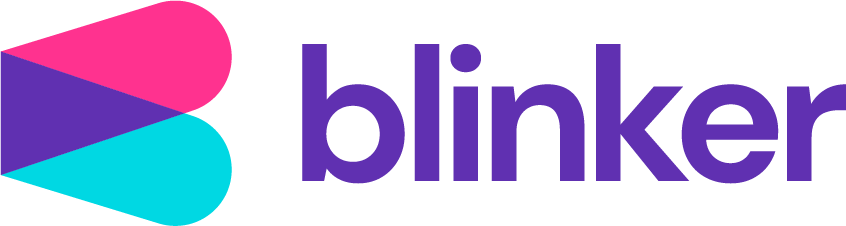
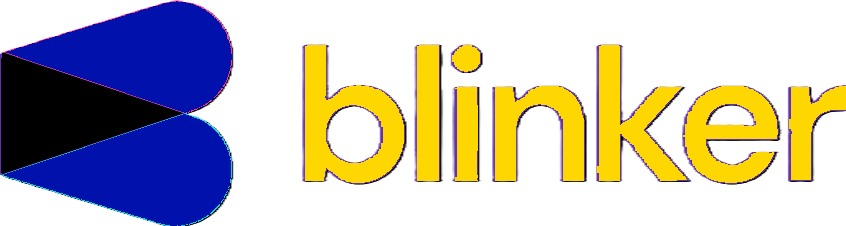
finsihed

diff --git a/style.css b/style.css
@@ -66,6 +66,7 @@ li {
 
 ul{
     display: flex;
+    align-items: center;
 }
 
 .white{
@@ -99,6 +100,7 @@ nav {
 }
 
 .logo {
+    color:#FFD700;
     max-width: 200px;
     max-height: 50px;
 }
@@ -111,6 +113,90 @@ nav {
     margin-right: 24px;
     font-size: 20px;
     font-weight: bold;
+}
+
+.filter__menu {
+    color: #000;
+    background-color: #FFD700;
+}
+
+.filter__button{
+    padding: 8px 16px;
+    border-radius: 8px;
+    font-weight: bold;
+    font-size: 16px;
+    cursor: pointer;
+    transition: all 300ms ease;
+}
+
+.filter__backdrop {
+    position: absolute;
+    background-color: #242424;
+    top: 0;
+    left: 0;
+    right: 0;
+    bottom: 0;
+    z-index: 100;
+    display: flex;
+    justify-content: center;
+    align-items: center;
+    transition: all 300ms ease;
+    visibility: hidden;
+    opacity: 0;
+}
+
+.filter--open {
+    max-height: 100vh;
+    overflow-y: hidden;
+}
+
+.filter--open .filter__backdrop {
+    opacity: 1;
+    visibility: visible;
+}
+
+.filter__menu--close {
+    position: absolute;
+    right: 20px;
+    top: 10px;
+    font-size: 48px;
+    color:#FFD700;
+    background-color: transparent;
+    cursor: pointer;
+    border: none;
+    transition: all 300ms ease;
+}
+
+.filter__button:hover{
+    opacity: 0.5;}
+
+.filter__choices{
+    display: flex;
+    flex-direction: column;
+    align-items: center;
+}
+
+.filter__choice--text{
+    font-size: 24px;
+    font-weight: 500;
+    color: #fff;
+}
+
+.filter__choice--button{
+    margin: 16px 0;
+    padding: 24px 48px;
+    font-size: 24px;
+    font-weight: 500;
+    background-color: #FFD700;
+    border-radius: 24px;
+    border: 2px solid #fff;
+    cursor: pointer;
+    transition: all 300ms ease;
+}
+
+.filter__choice--button:hover,
+.filter__menu--close:hover{
+    opacity: 0.5;
 }
 
 header{
@@ -188,11 +274,12 @@ MOVIE LIST SECTION
 
 input[type="range"]{
   width: 300px;
+  cursor: pointer;
 }
 
 input[type="range"]::-webkit-slider-runnable-track {
     height: 15px;
-    background: #ccc;
+    background: #FFD700;
     border-radius: 16px;
 }
 
@@ -364,6 +451,25 @@ FOOTER
 
 footer{
     background-color: #242424;
+    padding: 2% 0;
+}
+
+.footer__row {
+    display: flex;
+    flex-direction: column;
+    align-items: center;
+    text-align: center;
+}
+
+.footer__logo--img{
+    width: 300px;
+}
+
+.footer__copyright{
+    
+    color: white;
+    margin: 16px 0 0 0;
+
 }
 
 @media(max-width: 1024px){
@@ -465,7 +571,7 @@ footer{
     }
 
     .search__wrapper {
-        width: 400px;
+        width: 350px;
     }
 
     .reset__button {
@@ -481,9 +587,11 @@ footer{
     }
 
     .movie__description--text{
-        line-height: 1.5;
+        line-height: 1.2;
     }
 
-    
+    .footer__logo--img{
+        width: 200px
+    }
 
 }

diff --git a/index.js b/index.js
@@ -3,34 +3,34 @@ const pageListEl = document.querySelector(".page__list");
 let movieName = localStorage.getItem("movieName") || "None";
 let page = 1;
 let year = '';
+let type = "series";
 
-async function main(movieName, page, year) {
-  const movies = await fetch(`https://www.omdbapi.com/?apikey=7def6ab0&s=${movieName}&type=movie&page=${page}&y=${year}`);
+async function main(movieName, type, page, year) {
+  const movies = await fetch(`https://www.omdbapi.com/?apikey=7def6ab0&s=${movieName}&type=${type}&page=${page}&y=${year}`);
   const movieData = await movies.json();
   const movieList = movieData.Search;
   movieListEl.innerHTML = movieList.map((user) => moviesHtml(user)).join("");
   pageListEl.innerHTML = moviePages(movieData.totalResults, movieName);
 }
 
-main(movieName, page, year);
+main(movieName, type, page, year);
 
 function showUserMovies(imdbID) {
   localStorage.setItem("imdbID", imdbID);
   window.location.href = `${window.location.origin}/Week4-Project/movies.html`
-  console.log(window.location.origin);
 }
 
 async function onSearchChange(event) {
   movieName = event.target.value;
   localStorage.setItem("movieName", movieName);
-  main(movieName, page, year);
+  main(movieName, type, page, year);
 }
 
 function moviePages(totalResults, movieName) {
   let pages = Math.ceil(totalResults / 10);
   let pageList = [];
   for (let i = 1; i <= pages; i++) {
-    pageList.push(`<a class = "page__link" onclick = "main('${movieName}',${i},year)">${i}</a>`)
+    pageList.push(`<a class = "page__link" onclick = "main('${movieName}',type,${i},year)">${i}</a>`)
   }
   return pageList.join("");
 }
@@ -59,7 +59,7 @@ function movieYear() {
   var output = document.getElementById("demo");
   output.innerHTML = slider.value;
   year = (slider.value).toString();
-  main(movieName, page, year);
+  main(movieName, type, page, year);
 }
 
 function resetMovies() {
@@ -67,6 +67,26 @@ function resetMovies() {
   year = '';
   document.getElementById("slider__range").value = 1900;
   document.getElementById("demo").innerHTML = '';
-  main(movieName, page, year);
+  main(movieName, type, page, year);
 }
 
+function openMenu() {
+  document.body.classList += " filter--open"
+}
+
+function closeMenu() {
+  document.body.classList.remove('filter--open')
+}
+
+function changeType(elm) {
+  if (elm == 'movie')
+  {
+    type = elm;
+  }
+  else if (elm == 'show') {
+    type = 'series';
+  }
+
+  main(movieName, type, page, year);
+  closeMenu();
+}

diff --git a/index.html b/index.html
@@ -16,14 +16,28 @@
     <section id="landing">
       <nav>
         <div class="nav__container">
+          <a href="index.html">
           <img src="./assets/blinker-icon.4f9b2663.png" class="logo" alt="" />
+          </a>
           <div class="link__list">
             <ul>
               <li>
-                <a href="#" class="nav__link link__hover--effect">Home</a>
+                <a href="index.html" class="nav__link link__hover--effect">Home</a>
               </li>
               
             </ul>
+            <button class="filter__menu filter__button" onclick="openMenu()" >Filter</button>
+            <div class="filter__backdrop">
+              <button class=" filter__menu--close" onclick="closeMenu()">
+                        <i class="fas fa-times"></i>
+              </button>
+              <div class="filter__choices">
+                <h1 class = "filter__choice--text">Filter by:</h1>
+                <button class="filter__choice--button"  onclick="changeType('movie')">Movie
+                </button>
+                <button class="filter__choice--button"  onclick="changeType('show')">Show</button>
+              </div>
+            </div>
           </div>
         </div>
       </nav>
@@ -62,7 +76,7 @@
             <div class="slider__wrapper">
               <div class="year__wrapper">
 
-                <input type="range" min="1900" max="2025" class="slider" id="slider__range" onchange="movieYear()" />
+                <input type="range" min="1900" max="2025" class="slider" id="slider__range" oninput="movieYear()" />
                 <p class ="year  white">Filter By Year: <span id="demo"></span></p>
                 <button class="reset__button" onclick="resetMovies()">Reset</button>
               </div>
@@ -78,10 +92,17 @@
     </main>
     <footer>
       <div class="container">
-        <div class="row">
+        <div class="row footer__row">
+          <figure>
+            <img
+              class="footer__logo--img"
+              src="./assets/blinker-icon.4f9b2663.png"
+              alt=""
+            />
+          </figure>
+          <div class="footer__copyright">Copyright © 2025 Bryan Degante</div>
         </div>
       </div>
-      
     </footer>
   </body>
 </html>
